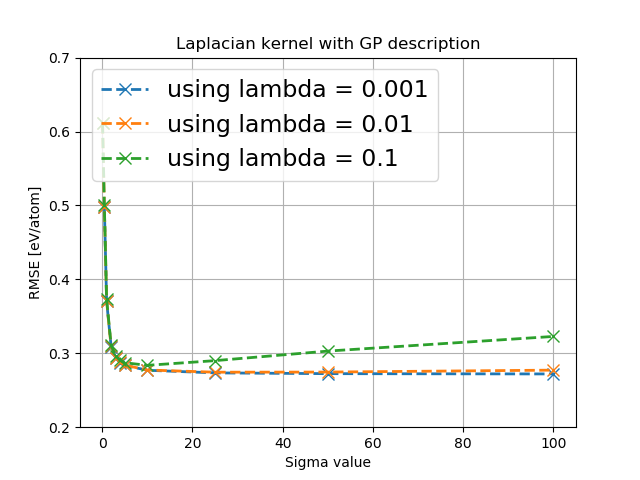
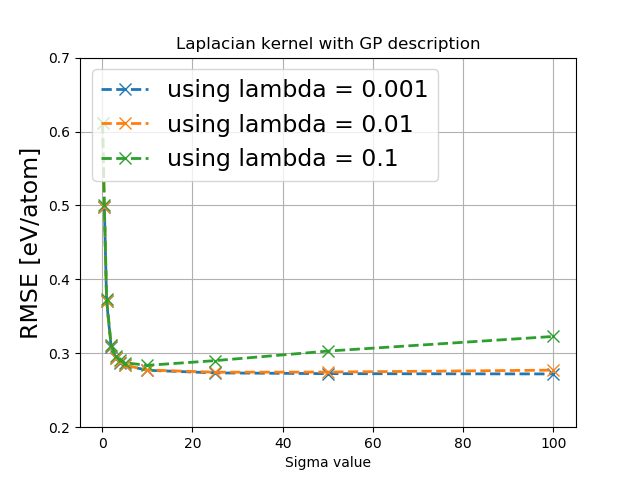
last of shells

Changed region(s): [[0.0312, 0.3125, 0.0625, 0.7188]]

diff --git a/KRR/Saved/Run 4/batch_plots.py b/KRR/Saved/Run 4/batch_plots.py
@@ -45,6 +45,9 @@ plt.plot(x[sort],y1[sort], marker='x', linestyle='dashed', linewidth=2, markersi
 plt.plot(x[sort],y2[sort], marker='x', linestyle='dashed', linewidth=2, markersize=8, label="Training set")
 plt.legend(loc='lower right')
 plt.title("Effect of Regularization", fontsize=20)
+plt.ylabel("RMSE [eV/atom]",fontsize=17)
+plt.xlabel("Regularization value ($\lambda$)",fontsize=17)
+
 plt.tight_layout()
 plt.savefig("lin_lam.png")
 plt.show()
@@ -77,7 +80,6 @@ plt.figure(4)
 # Enable interactive mode
 plt.ion()
 plt.title("Gaussian kernel with GP description", fontsize=20)
-plt.xlabel("Lambda value", fontsize=17)
 plt.ylabel("RMSE [eV/atom]", fontsize=17)
 # Draw the grid lines
 plt.grid(True)
@@ -91,6 +93,8 @@ plt.plot(x[sort],y1[sort], marker='x', linestyle='dashed', linewidth=2, markersi
 plt.plot(x[sort],y2[sort], marker='x', linestyle='dashed', linewidth=2, markersize=8, label="Training set")
 plt.legend(loc='lower right', fontsize=17)
 plt.title("Gaussian kernel with GP description", fontsize=20)
+plt.xlabel("Regularization value ($\lambda$)",fontsize=17)
+plt.xscale('log')
 
 plt.savefig("gauss_lam.png")
 plt.show()
@@ -105,7 +109,7 @@ plt.figure(2)
 plt.ion()
 plt.title("Laplacian kernel with GP description")
 plt.xlabel("Sigma value")
-plt.ylabel("RMSE [eV/atom]")
+plt.ylabel("RMSE [eV/atom]",fontsize=17)
 # Draw the grid lines
 plt.grid(True)
 for l in lambd:
@@ -123,8 +127,6 @@ plt.figure(5)
 # Enable interactive mode
 plt.ion()
 plt.title("Laplacian kernel with GP description", fontsize=20)
-plt.xlabel("Lambda value", fontsize=17)
-plt.ylabel("RMSE [eV/atom]", fontsize=17)
 # Draw the grid lines
 plt.grid(True)
 c=5
@@ -137,6 +139,9 @@ plt.plot(x[sort],y1[sort], marker='x', linestyle='dashed', linewidth=2, markersi
 plt.plot(x[sort],y2[sort], marker='x', linestyle='dashed', linewidth=2, markersize=8, label="Training set")
 plt.legend(loc='lower right', fontsize=17)
 plt.title("Laplacian kernel with GP description", fontsize=20)
+plt.ylabel("RMSE [eV/atom]",fontsize=17)
+plt.xlabel("Regularization value ($\lambda$)",fontsize=17)
+plt.xscale('log')
 plt.savefig("laplace_lam.png")
 plt.show()
 

diff --git a/KRR/writesingleshell.py b/KRR/writesingleshell.py
@@ -1,10 +1,10 @@
 
 #Shell script function
-jobname='testing'
-output='output/4_0.1_faulty_gauss-%J.out'
+jobname='testing_laplace'
+output='output/test_results_laplace-%J.out'
 mem='10GB'
 runtime='45:00'
-run='KRR/KRR_on_test.py linear 0.8193310105066505 GP newest -0.0004232564074429044'
+run='KRR/KRR_on_test.py laplacian 0.0000001637 GP newest 5734'
 new_entry='#!/bin/bash\n##Kør på cpu\n#BSUB -q hpc\n##Navn på job\n#BSUB -J '+jobname+'\n##Output fil\n#BSUB -o '+output+'\n##Antal kerner\n#BSUB -n 1\n##Om kernerne må være på forskellige computere\n#BSUB -R "span[hosts=1]"\n##Ram pr kerne\n#BSUB -R "rusage[mem='+mem+']"\n##Hvor lang tid må den køre hh:mm\n#BSUB -W '+runtime+'\n##Email når jobbet starter\n#BSUB -B\n##og stopper\n#BSUB -N\nmodule purge\nmodule load python3\npython3 '+run
 #Shell script name
 file="test"

diff --git a/KRR/Saved/Run 4/batch_plots_compare.py b/KRR/Saved/Run 4/batch_plots_compare.py
@@ -4,7 +4,7 @@ import pandas
 
 folder = "GP/"
 ktype = "lin"
-lambd = [0.001,0.01,0.1,1.0,10]
+lambd = [0.01,0.1,1.0]
 prdf="newest"
 #Compare shown in red
 cfolder = "SimpleLarge/"
